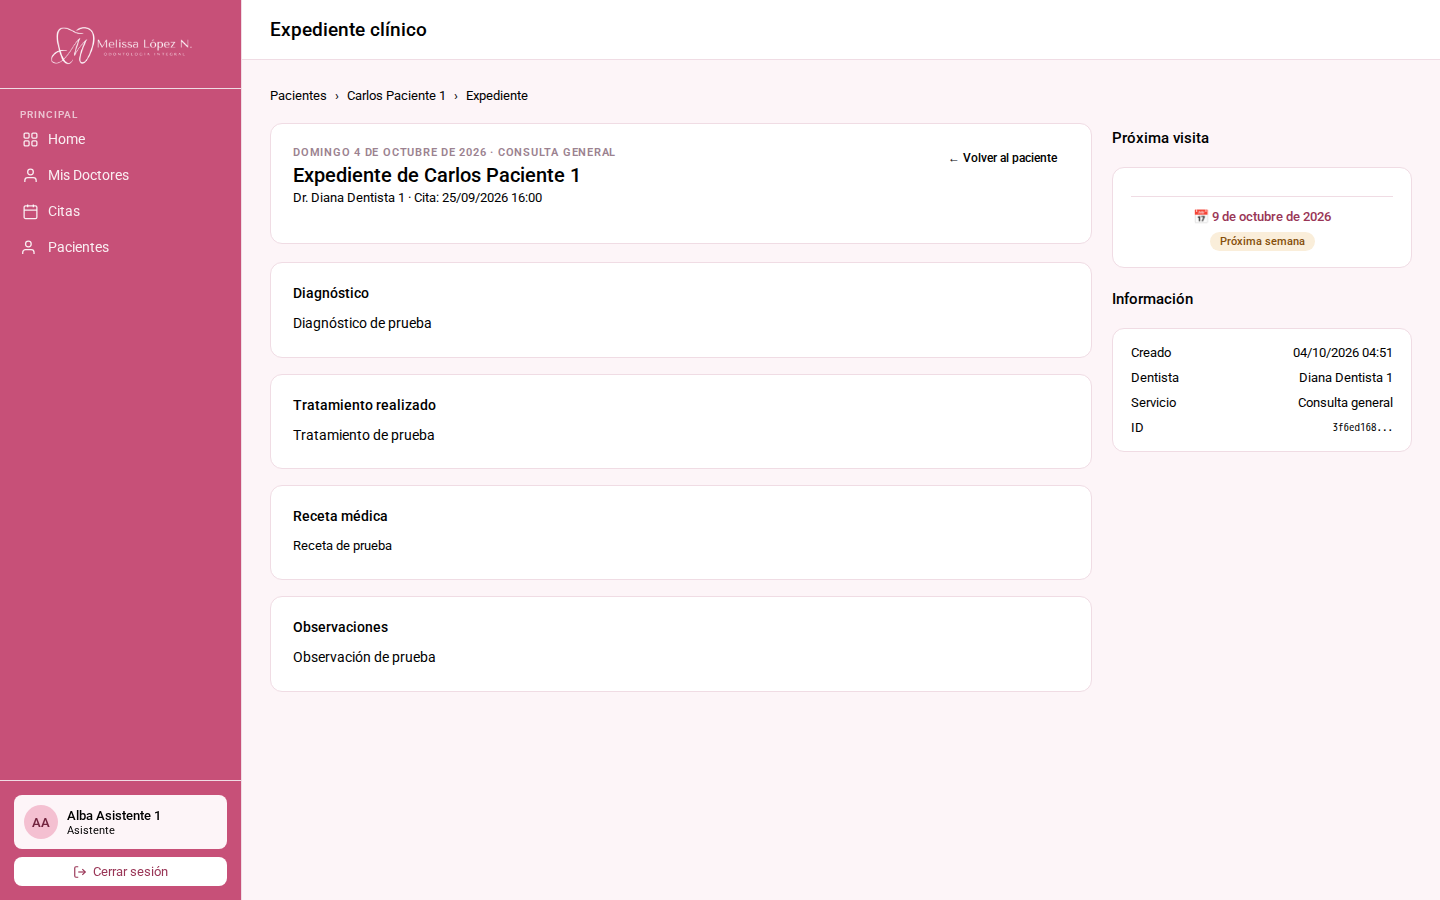
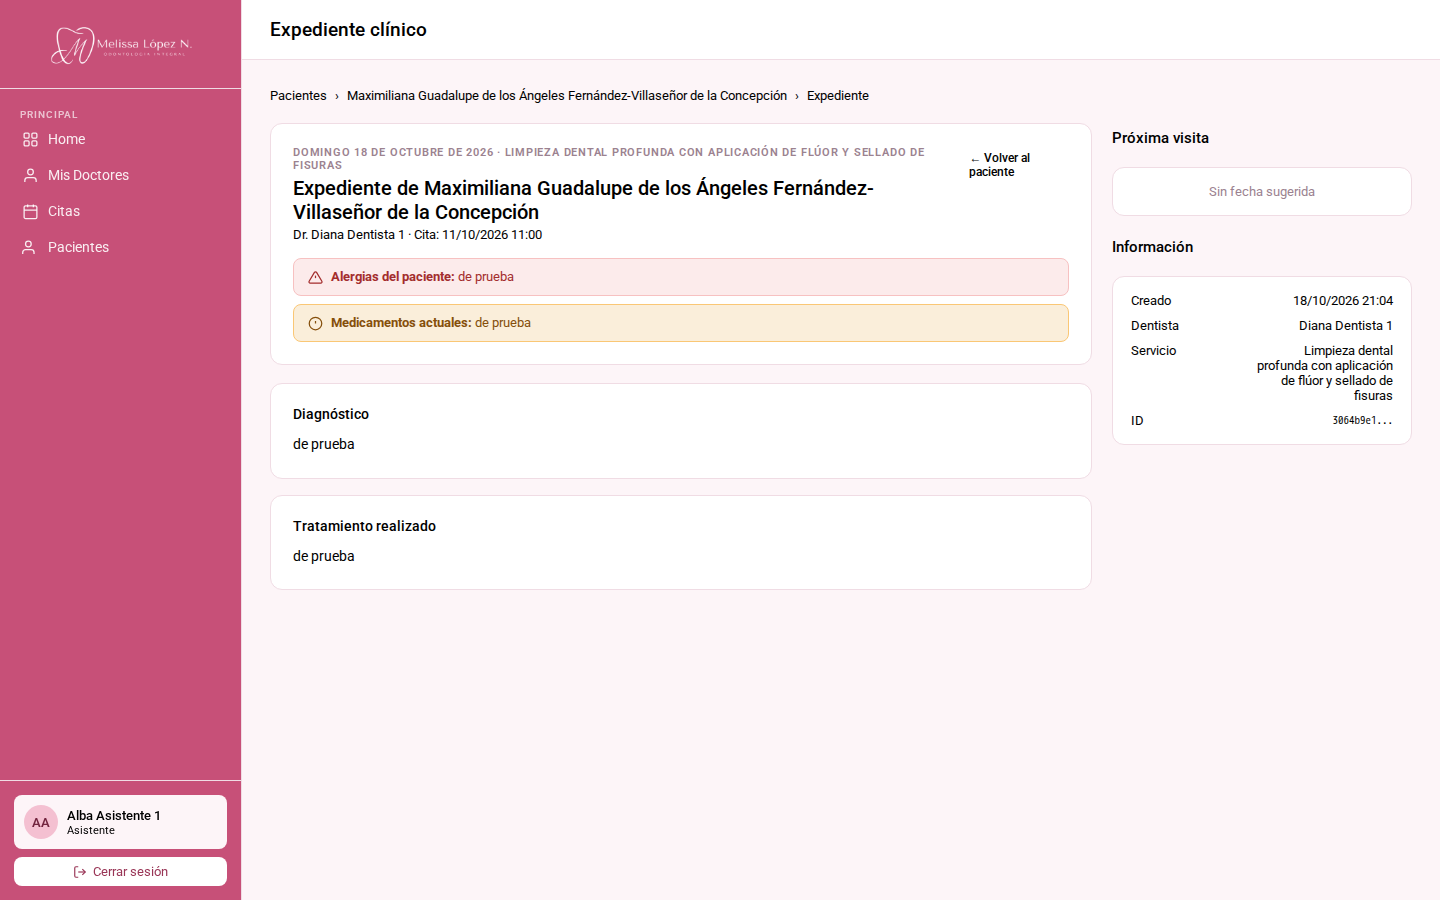
docs(035): T028 capturas de pacientes y expedientes a 320, 390 y 1440 y filas en system.md
Cubre: CA1, CA2, CA3, CA4, CA10, CA11
Tareas: docs/specs/035-movil-pacientes-expedientes/tasks.md

diff --git a/docs/design/system.md b/docs/design/system.md
@@ -451,6 +451,11 @@ Todas son capturas reales (galería completa en `system.html` → Pantallas).
 | Reprogramar cita (personal) | `system.html#citas-reprogramar-admin-390` | `system.html#citas-reprogramar-admin-1440` | formulario accesible, resumen de la cita, badge, botón principal, `.btn-danger` |
 | Reprogramar cita (paciente) | `system.html#citas-reprogramar-cliente-390` | `system.html#citas-reprogramar-cliente-1440` | formulario accesible, resumen de la cita, badge, botón principal, `.btn-danger` |
 | Menú del móvil (spec 033) | `capturas/menu-abierto-cliente-390.png` · `capturas/menu-abierto-admin-390.png` · `capturas/menu-abierto-dentista-390.png` · `capturas/menu-abierto-asistente-390.png` | — (en el escritorio es la barra lateral) | botón «Menú», panel blanco, sección actual con `aria-current`, «Cerrar menú», velo |
+| Ficha del paciente (spec 035) | `system.html#pacientes-show-admin-390` · `capturas/pacientes-show-admin-320.png` | `system.html#pacientes-show-admin-1440` | migas, acciones de la barra en una fila, perfil compacto, ficha en una columna, historial de citas (tarjetas en el móvil) |
+| Nuevo y editar paciente (spec 035) | `system.html#pacientes-create-admin-390` · `capturas/pacientes-create-admin-320.png` | `system.html#pacientes-create-admin-1440` | migas, formulario con etiquetas y errores accesibles, foco del sistema, acciones de formulario |
+| Expedientes (spec 035) | `system.html#expedientes-index-dentista-390` · `capturas/expedientes-index-dentista-320.png` | `system.html#expedientes-index-dentista-1440` | buscador con etiqueta, tabla (tarjetas en el móvil), paginación |
+| Expediente (spec 035) | `system.html#expedientes-show-admin-390` · `capturas/expedientes-show-admin-320.png` | `system.html#expedientes-show-admin-1440` | migas, cabecera, avisos de alergias y medicamentos, formulario con etiquetas, próxima visita, información (ficha en una columna) |
+| Nuevo expediente (spec 035) | `system.html#expedientes-create-admin-390` · `capturas/expedientes-create-admin-320.png` | `system.html#expedientes-create-admin-1440` | migas, formulario con etiquetas y errores accesibles, acciones de formulario |
 
 **Reprogramar cita (spec 028)**, del personal y del paciente: dentro de `.formulario-accesible`, una
 tarjeta con el resumen de la cita (paciente o dentista, servicio, fecha, hora y badge de estado), el
@@ -478,6 +483,16 @@ base de prueba y textos largos inventados. A 1024 y 1440, esas pantallas son igu
 base de v0.7.0 generada en la misma sesión (D13), comparadas en reposo: el foco con tokens de lo que
 la 034 toca es una diferencia admitida en el escritorio (A72). El resto de las vistas del personal
 (formularios, fichas, expedientes) sigue desbordándose en el móvil (resto de DS8).
+
+**Móvil de pacientes y expedientes (spec 035):** la ficha y el formulario del paciente (alta y
+edición) y la lista, la ficha y el alta de expedientes ya no se desbordan de 320 a 1440 px
+(`capturar.mjs --medir`): las fichas van en una columna en el orden del HTML, el historial de citas y
+la lista de expedientes se leen como tarjetas, las acciones de la barra bajan a una fila bajo el
+título, el perfil del paciente es compacto y los textos largos parten sin salirse. Los iconos «Menú» y
+«Cerrar menú» quedan sin recuadro. Sus capturas a 320, 390 y 1440 px y las del menú abierto de los
+cuatro roles a 390 son del 2026-10-18 (spec 035, T028), con la base de prueba y textos largos
+inventados. A 1024 y 1440, esas pantallas son iguales a una línea base de v0.8.0 generada en la misma
+sesión (D13). Quedan la agenda y los servicios (spec 036) y la administración (spec 037).
 
 ## Inventario de vistas
 
@@ -507,11 +522,11 @@ rehacer el resto de la galería.
 | Detalle de cita | /admin/citas/{id} · citas/show | admin | capturas/citas-show-admin-390.png · capturas/citas-show-admin-1440.png | capturada |
 | Reprogramar cita (personal) | /admin/citas/{id}/reprogramar · citas/reprogramar | admin | capturas/citas-reprogramar-admin-390.png · capturas/citas-reprogramar-admin-1440.png | capturada |
 | Pacientes | /admin/pacientes · pacientes/index | admin | capturas/pacientes-index-admin-390.png · capturas/pacientes-index-admin-1440.png | capturada |
-| Nuevo paciente | /admin/pacientes/crear · pacientes/create | admin | capturas/pacientes-create-admin-390.png · capturas/pacientes-create-admin-1440.png | capturada |
-| Ficha del paciente | /admin/pacientes/{id} · pacientes/show | admin | capturas/pacientes-show-admin-390.png · capturas/pacientes-show-admin-1440.png | capturada |
-| Editar paciente | /admin/pacientes/{id}/edit · pacientes/edit → create | admin | capturas/pacientes-edit-admin-390.png · capturas/pacientes-edit-admin-1440.png | capturada |
-| Nuevo expediente | /admin/expedientes/crear?paciente_id={id} · expedientes/create | admin | capturas/expedientes-create-admin-390.png · capturas/expedientes-create-admin-1440.png | capturada |
-| Expediente | /admin/expedientes/{id} · expedientes/show | admin | capturas/expedientes-show-admin-390.png · capturas/expedientes-show-admin-1440.png | capturada |
+| Nuevo paciente | /admin/pacientes/crear · pacientes/create | admin | capturas/pacientes-create-admin-320.png · capturas/pacientes-create-admin-390.png · capturas/pacientes-create-admin-1440.png | capturada |
+| Ficha del paciente | /admin/pacientes/{id} · pacientes/show | admin | capturas/pacientes-show-admin-320.png · capturas/pacientes-show-admin-390.png · capturas/pacientes-show-admin-1440.png | capturada |
+| Editar paciente | /admin/pacientes/{id}/edit · pacientes/edit → create | admin | capturas/pacientes-edit-admin-320.png · capturas/pacientes-edit-admin-390.png · capturas/pacientes-edit-admin-1440.png | capturada |
+| Nuevo expediente | /admin/expedientes/crear?paciente_id={id} · expedientes/create | admin | capturas/expedientes-create-admin-320.png · capturas/expedientes-create-admin-390.png · capturas/expedientes-create-admin-1440.png | capturada |
+| Expediente | /admin/expedientes/{id} · expedientes/show | admin | capturas/expedientes-show-admin-320.png · capturas/expedientes-show-admin-390.png · capturas/expedientes-show-admin-1440.png | capturada |
 | Personal | /admin/personal · personal/index | admin | capturas/personal-index-390.png · capturas/personal-index-1440.png | capturada |
 | Nuevo miembro del personal | /admin/personal/crear · personal/create | admin | capturas/personal-create-390.png · capturas/personal-create-1440.png | capturada |
 | Nuevo personal: asistente | /admin/personal/crear (tipo "Asistente", `selectTipo`) · personal/create | admin | capturas/personal-create-asistente-390.png · capturas/personal-create-asistente-1440.png | capturada |
@@ -530,20 +545,20 @@ rehacer el resto de la galería.
 | Nueva cita (dentista) | /dentista/citas/crear · citas/create | dentista | capturas/citas-create-dentista-390.png · capturas/citas-create-dentista-1440.png | capturada |
 | Detalle de cita (dentista) | /dentista/citas/{id} · citas/show | dentista | capturas/citas-show-dentista-390.png · capturas/citas-show-dentista-1440.png | capturada |
 | Pacientes (dentista) | /dentista/pacientes · pacientes/index | dentista | capturas/pacientes-index-dentista-390.png · capturas/pacientes-index-dentista-1440.png | capturada |
-| Ficha del paciente (dentista) | /dentista/pacientes/{id} · pacientes/show | dentista | capturas/pacientes-show-dentista-390.png · capturas/pacientes-show-dentista-1440.png | capturada |
-| Editar paciente (dentista) | /dentista/pacientes/{id}/edit · pacientes/edit | dentista | capturas/pacientes-edit-dentista-390.png · capturas/pacientes-edit-dentista-1440.png | capturada |
-| Expedientes | /dentista/expedientes · expedientes/index | dentista | capturas/expedientes-index-dentista-390.png · capturas/expedientes-index-dentista-1440.png | capturada |
-| Nuevo expediente (dentista) | /dentista/expedientes/crear?paciente_id={id} · expedientes/create | dentista | capturas/expedientes-create-dentista-390.png · capturas/expedientes-create-dentista-1440.png | capturada |
-| Expediente (dentista) | /dentista/expedientes/{id} · expedientes/show | dentista | capturas/expedientes-show-dentista-390.png · capturas/expedientes-show-dentista-1440.png | capturada |
+| Ficha del paciente (dentista) | /dentista/pacientes/{id} · pacientes/show | dentista | capturas/pacientes-show-dentista-320.png · capturas/pacientes-show-dentista-390.png · capturas/pacientes-show-dentista-1440.png | capturada |
+| Editar paciente (dentista) | /dentista/pacientes/{id}/edit · pacientes/edit | dentista | capturas/pacientes-edit-dentista-320.png · capturas/pacientes-edit-dentista-390.png · capturas/pacientes-edit-dentista-1440.png | capturada |
+| Expedientes | /dentista/expedientes · expedientes/index | dentista | capturas/expedientes-index-dentista-320.png · capturas/expedientes-index-dentista-390.png · capturas/expedientes-index-dentista-1440.png | capturada |
+| Nuevo expediente (dentista) | /dentista/expedientes/crear?paciente_id={id} · expedientes/create | dentista | capturas/expedientes-create-dentista-320.png · capturas/expedientes-create-dentista-390.png · capturas/expedientes-create-dentista-1440.png | capturada |
+| Expediente (dentista) | /dentista/expedientes/{id} · expedientes/show | dentista | capturas/expedientes-show-dentista-320.png · capturas/expedientes-show-dentista-390.png · capturas/expedientes-show-dentista-1440.png | capturada |
 | Panel de la asistente | /asistente · dashboard/asistente | asistente | capturas/asistente-dashboard-390.png · capturas/asistente-dashboard-1440.png | capturada |
 | Mis doctores | /asistente/doctores · personal/mis-doctores | asistente | capturas/asistente-doctores-390.png · capturas/asistente-doctores-1440.png | capturada |
 | Citas (asistente) | /asistente/citas · citas/index | asistente | capturas/citas-index-asistente-390.png · capturas/citas-index-asistente-1440.png | capturada |
 | Nueva cita (asistente) | /asistente/citas/crear · citas/create | asistente | capturas/citas-create-asistente-390.png · capturas/citas-create-asistente-1440.png | capturada |
 | Detalle de cita (asistente) | /asistente/citas/{id} · citas/show | asistente | capturas/citas-show-asistente-390.png · capturas/citas-show-asistente-1440.png | capturada |
 | Pacientes (asistente) | /asistente/pacientes · pacientes/index | asistente | capturas/pacientes-index-asistente-390.png · capturas/pacientes-index-asistente-1440.png | capturada |
-| Nuevo paciente (asistente) | /asistente/pacientes/crear · pacientes/create | asistente | capturas/pacientes-create-asistente-390.png · capturas/pacientes-create-asistente-1440.png | capturada |
-| Ficha del paciente (asistente) | /asistente/pacientes/{id} · pacientes/show | asistente | capturas/pacientes-show-asistente-390.png · capturas/pacientes-show-asistente-1440.png | capturada |
-| Expediente (asistente, solo lectura) | /asistente/expedientes/{id} · expedientes/show | asistente | capturas/expedientes-show-asistente-390.png · capturas/expedientes-show-asistente-1440.png | capturada |
+| Nuevo paciente (asistente) | /asistente/pacientes/crear · pacientes/create | asistente | capturas/pacientes-create-asistente-320.png · capturas/pacientes-create-asistente-390.png · capturas/pacientes-create-asistente-1440.png | capturada |
+| Ficha del paciente (asistente) | /asistente/pacientes/{id} · pacientes/show | asistente | capturas/pacientes-show-asistente-320.png · capturas/pacientes-show-asistente-390.png · capturas/pacientes-show-asistente-1440.png | capturada |
+| Expediente (asistente, solo lectura) | /asistente/expedientes/{id} · expedientes/show | asistente | capturas/expedientes-show-asistente-320.png · capturas/expedientes-show-asistente-390.png · capturas/expedientes-show-asistente-1440.png | capturada |
 | Panel del paciente | /cliente · dashboard/cliente | cliente | capturas/cliente-dashboard-320.png · capturas/cliente-dashboard-390.png · capturas/cliente-dashboard-1440.png | capturada |
 | Mis citas (próximas) | /cliente/citas · citas/cliente-index | cliente | capturas/citas-index-cliente-320.png · capturas/citas-index-cliente-390.png · capturas/citas-index-cliente-1440.png | capturada |
 | Mis citas (pasadas) | /cliente/citas?filtro=pasadas · citas/cliente-index | cliente | capturas/citas-index-cliente-pasadas-320.png · capturas/citas-index-cliente-pasadas-390.png · capturas/citas-index-cliente-pasadas-1440.png | capturada |
@@ -588,7 +603,7 @@ se corrige cuando una spec toca la pantalla o como objetivo del roadmap. Se conc
 | DS5 | Componentes duplicados o contradictorios: 11 bloques `<style>` dentro del contenido redefinen `.field` (borde 1.5px, radio 5px, 'DM Sans'), `citas.css` solo en 7 vistas, y `auth.css` redefine tokens (`--text-light: #000`) | `expedientes/create:139`, `pacientes/create:200`, `usuarios/index:208`…, `public/css/auth.css:8-26` | Una sola hoja de componentes cargada por el layout | en curso: `.field-hint` y `.field-hint-error` pasan a `app.css` (spec 027) |
 | DS6 | Objetivo de toque < 44px (medido): botón 31px, `.btn-sm` 22–27px, campo 34–38px, elemento del menú 35px | `public/css/app.css:194-219,353-356`, `citas.css:16-30`; medidas de las 104 vistas con menú | `min-height` con un token `--touch-min` | parcial (033, 034): `--touch-min` existe y se aplica por debajo de 900 px en el menú y las pantallas del paciente (spec 033) y en las pantallas más usadas del personal (spec 034) |
 | DS7 | Estados y semántica que faltan: sin deshabilitado ni carga, sin páginas de error propias (403 y 404 de Laravel en inglés), mensajes flash sin `aria-live`, diálogos sin `role="dialog"` ni manejo del foco, 5 `confirm()` nativos, títulos de sección como `span` | `layouts/app.blade.php:207-253`, `servicios/index:121-193`, `usuarios/index:215-299`; capturas `error-403`, `error-404` | Componentes de aviso y diálogo accesibles, estados de carga y páginas de error con la marca | pendiente |
-| DS8 | La app no se adapta a móvil (medido): a 390 px, 54 de 62 vistas se desbordan en horizontal (472–1157px de ancho; las dos de reprogramar, 498px por la barra lateral), con barra lateral fija de 242px y rejillas fijas; solo el acceso y el registro se adaptan | `public/css/app.css` (0 `@media`), `:60-70,234,270-272`; capturas `*-390` | Diseño adaptable a partir de 390px, empezando por las pantallas del paciente | parcial (033, 034): menú común y pantallas del paciente desde 320 px (spec 033); paneles, citas con su filtro, detalle de cita, pacientes y servicios del personal, con las tablas como tarjetas (spec 034); el resto de pantallas del personal, en una spec siguiente |
+| DS8 | La app no se adapta a móvil (medido): a 390 px, 54 de 62 vistas se desbordan en horizontal (472–1157px de ancho; las dos de reprogramar, 498px por la barra lateral), con barra lateral fija de 242px y rejillas fijas; solo el acceso y el registro se adaptan | `public/css/app.css` (0 `@media`), `:60-70,234,270-272`; capturas `*-390` | Diseño adaptable a partir de 390px, empezando por las pantallas del paciente | parcial (033, 034, 035): menú común y pantallas del paciente desde 320 px (spec 033); paneles, citas con su filtro, detalle de cita, pacientes y servicios del personal, con las tablas como tarjetas (spec 034); ficha y formulario del paciente y lista, ficha y alta de expedientes (spec 035); agenda y servicios (spec 036) y administración (spec 037), pendientes |
 | DS9 | Tipografía: Roboto se carga desde Google Fonts sin aprobación en `security.md`; 'DM Sans' y 'DM Mono' se nombran sin cargarse (medido: los campos de usuarios caen a la sans-serif genérica); el peso 300 se carga y no se usa | `layouts/app.blade.php:7`, `usuarios/create:127`, `usuarios/index:210`, `servicios/index:37`, `expedientes/create:110` | Autoalojar Roboto o aprobar el servicio; quitar las familias no cargadas y los pesos sin uso | pendiente |
 | DS10 | El movimiento no respeta `prefers-reduced-motion` | `public/css/auth.css:164,346,504-509`, `usuarios/index:295`, `app.css:374` | Bloque `prefers-reduced-motion: reduce` | parcial (033, v0.7.0): solo el menú del móvil (spec 033) |
 | DS11 | Restos sin uso: Tailwind 4, Vite y `welcome.blade.php` (ninguna ruta los sirve); clases sin uso (`.logo-icon`, `.appt-card`, `.alert-item`…, y en `auth.css` `.brand-logo`, `.features`…); tokens `--space-7` y `--space-8` sin uso | `package.json`, `vite.config.js`, `resources/views/welcome.blade.php`, `public/css/app.css:37-38,80-94,379,409-417`, `auth.css` | Retirarlos o decidir migrar a ellos | pendiente |

diff --git a/docs/specs/035-movil-pacientes-expedientes/tasks.md b/docs/specs/035-movil-pacientes-expedientes/tasks.md
@@ -90,7 +90,9 @@ Sobre el desglose (el análisis completo está en `plan.md`, contra la constituc
 - [x] T027 Comprobar con `--medir` que no queda ningún bloque señalado en las pantallas incluidas tras T022–T026; si aparece alguno, detenerse y proponer una tarea nueva con su test (Desvíos de `/implement`), sin corregirlo aquí — (sin archivos) — hecho cuando: `--medir` no da fallos en ninguna pantalla incluida ni en las de la 033 y la 034, a ningún ancho, con y sin JavaScript, y la nota dice «sin bloques extra» o enlaza las tareas nuevas — cubre: CA8, CA9 — depende: T022, T023, T024, T025, T026
   - nota: sin bloques extra: `--medir` «todo en orden» el 2026-10-18 (línea base v0.8.0 tomada justo antes, en la misma sesión), en todas las pantallas incluidas y en las de la 033 y la 034, a todos los anchos y sin JavaScript. La primera pasada dio un fallo en `dentista-panel@390` («Ver detalle» sin `.btn-icono`): la base de prueba era del 17 y el panel no tenía citas de hoy; con `montar.sh` del día, sin fallos.
   - nota: A27 — sin fallos también en las pantallas de la 033 y la 034 tras la regla de todo el móvil de `.topbar-title` y `.migas-actual`.
-- [ ] T028 Rehacer con `capturar.mjs` las capturas de las pantallas incluidas a 320, 390 y 1440 y las del menú abierto de cada rol, y poner sus filas en las tablas de pantallas e inventario de `system.md` (DS8 «parcial (033, 034, 035)») — docs/design/capturas/ (generado por node capturar.mjs), docs/design/system.md — hecho cuando: las capturas existen, a 1024 y 1440 las pantallas incluidas son iguales a la línea base de la misma sesión (anotado) y `system.md` las lista · verificación manual: el usuario revisa las capturas a 320 y 390 contra `design/opcion-a.html` y `opcion-c.html` — cubre: CA1, CA2, CA3, CA4, CA10, CA11 — depende: T027
+- [x] T028 Rehacer con `capturar.mjs` las capturas de las pantallas incluidas a 320, 390 y 1440 y las del menú abierto de cada rol, y poner sus filas en las tablas de pantallas e inventario de `system.md` (DS8 «parcial (033, 034, 035)») — docs/design/capturas/ (generado por node capturar.mjs), docs/design/system.md — hecho cuando: las capturas existen, a 1024 y 1440 las pantallas incluidas son iguales a la línea base de la misma sesión (anotado) y `system.md` las lista · verificación manual: el usuario revisa las capturas a 320 y 390 contra `design/opcion-a.html` y `opcion-c.html` — cubre: CA1, CA2, CA3, CA4, CA10, CA11 — depende: T027
+  - nota: capturas del 2026-10-18 con `capturar.mjs --anchos=320,390,1440` de las 13 vistas de la 035 y, a 390, del menú abierto de los cuatro roles, sobre la base de prueba rehecha ese día; `git status docs/design/capturas/` solo muestra esas (28 cambiadas y 13 nuevas de 320). A 1024 y 1440, iguales a la línea base v0.8.0 de la misma sesión (`--medir` de T027). `system.md`: cinco filas en «Pantallas principales», párrafo de la 035, capturas de 320 en el inventario y DS8 «parcial (033, 034, 035)».
+  - nota: verificación manual OK 2026-10-18 (usuario): capturas a 320 y 390 contra `design/opcion-a.html` (bloques) y `opcion-c.html` (perfil del paciente).
 
 - [x] T029 Ampliar en `MovilPacienteTest` la lista de selectores que pueden declarar `overflow-wrap: anywhere` en `movil.css` (D8 de la 034) con `.topbar-title`, `.migas-actual` y `.migas a` (D6 de la 035, /analyze A12 y A21) — tests/Feature/MovilPacienteTest.php — hecho cuando: `test_los_textos_largos_parten_de_linea` pasa dos veces con las reglas de T021 y sigue fallando si `anywhere` aparece en otro selector (control positivo, deshecho) — cubre: CA8 — depende: T020
   - nota: añadida durante /implement 2026-10-17 (decisión del usuario): la regla de todo el móvil de D6 no estaba en la lista cerrada del test de la 033 (efecto anunciado en /analyze A27); T021 se cierra cuando pase esta tarea.
